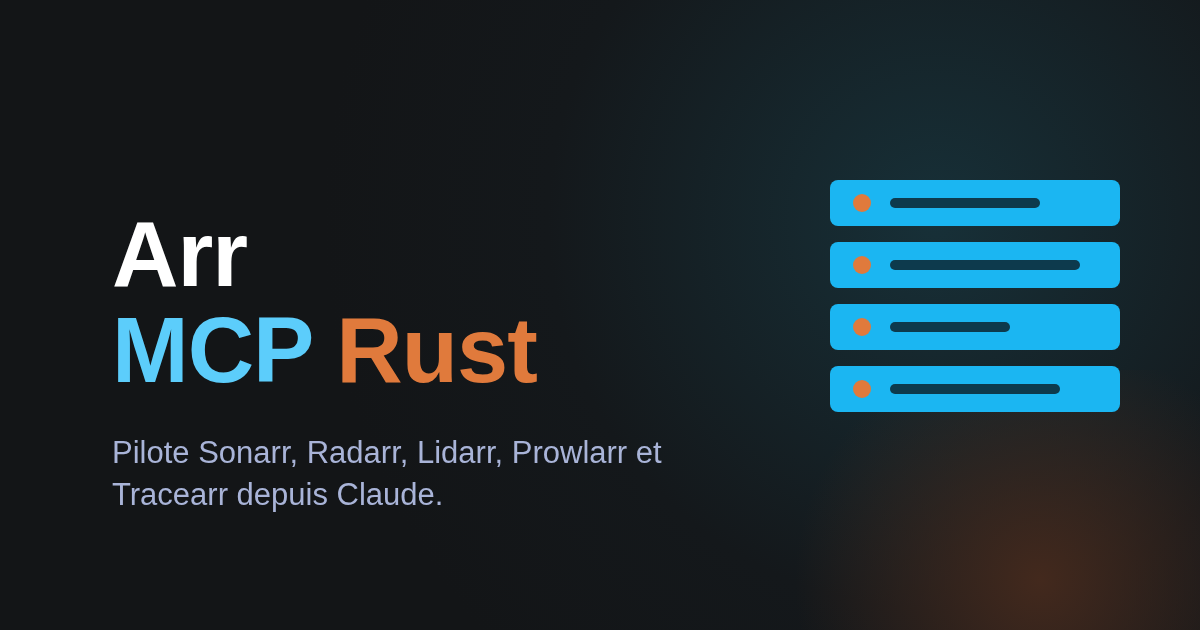
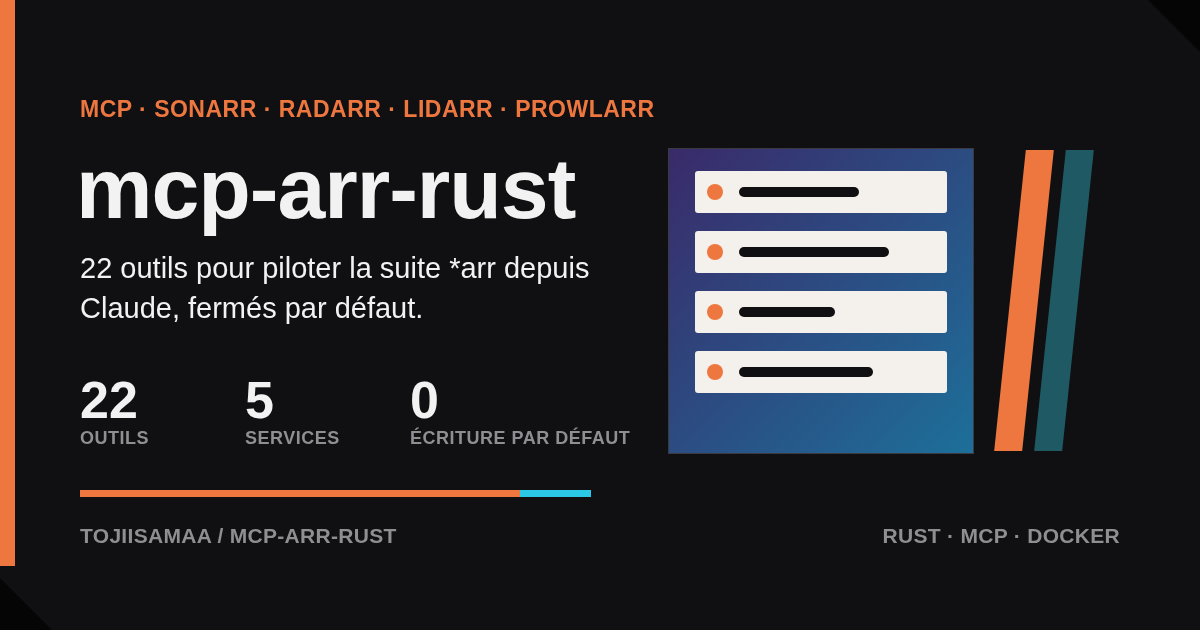
Visuel et readme_discord.md dans le gabarit d'anime4k-rust

diff --git a/readme_discord.md b/readme_discord.md
@@ -1,6 +1,5 @@
-![MCP Arr Rust](https://raw.githubusercontent.com/TojiiSamaa/mcp-arr-rust/main/assets/discord-apercu.png)
-
-Arr MCP Rust est un serveur MCP écrit en Rust qui laisse Claude (ou tout client MCP) piloter Sonarr, Radarr, Lidarr, Prowlarr et Tracearr : un seul binaire statique, ou une image Docker.
-Il expose 22 outils `arr_*` pour lire la bibliothèque, la file de téléchargement, l'historique et les releases, avec un mode test qui ne contacte rien de réel.
-Il est fermé par défaut : lecture seule tant que les écritures et les suppressions ne sont pas activées, confirmation humaine pour les actions destructives, secrets masqués.
-Il inclut une skill complète pour les agents. Projet sous licence MIT.
+![mcp-arr-rust](https://raw.githubusercontent.com/TojiiSamaa/mcp-arr-rust/main/assets/discord-apercu.png)
+mcp-arr-rust est un serveur MCP en Rust qui laisse Claude piloter Sonarr, Radarr, Lidarr, Prowlarr et Tracearr avec 22 outils, pour lire la bibliothèque, la file de téléchargement et l'historique, ou ajouter un titre.
+Il est fermé par défaut : lecture seule, écritures et suppressions derrière deux interrupteurs séparés, simulation (dry-run), confirmation humaine et secrets masqués dans toutes les réponses.
+Un mode test hors ligne rejoue des réponses enregistrées sans rien contacter, pour essayer chaque outil en toute sécurité.
+Une skill portable explique chaque outil aux agents, et l'image Docker existe en multi-architecture.

diff --git a/README.md b/README.md
@@ -1,10 +1,10 @@
 <p align="center">
-  <img src="assets/discord-apercu.png" alt="MCP Arr Rust" width="720">
+  <img src="assets/discord-apercu.png" alt="mcp-arr-rust" width="720">
 </p>
 
-<h1 align="center">Arr MCP Rust</h1>
+<h1 align="center">mcp-arr-rust</h1>
 
-<p align="center"><code>arrmcp</code> (mcp-arr-rust) : Sonarr, Radarr, Lidarr, Prowlarr et Tracearr depuis Claude.</p>
+<p align="center"><code>arrmcp</code> : Sonarr, Radarr, Lidarr, Prowlarr et Tracearr depuis Claude.</p>
 
 
 **Français, en bref.** Serveur MCP en Rust pour Sonarr, Radarr, Lidarr, Prowlarr et Tracearr (22 outils `arr_*`). Fermé par défaut : lecture seule tant que `ARR_ALLOW_WRITES` / `ARR_ALLOW_DELETE` ne sont pas activés ; confirmation humaine pour les actions destructives ; mode test (`--test`) qui ne contacte rien de réel. Le skill pour les agents est dans `skill/mcp-arr-rust/SKILL.md`. Portage de [mcp-arr](https://github.com/aplaceforallmystuff/mcp-arr) (MIT) ; les outils TRaSH ne sont pas portés.
